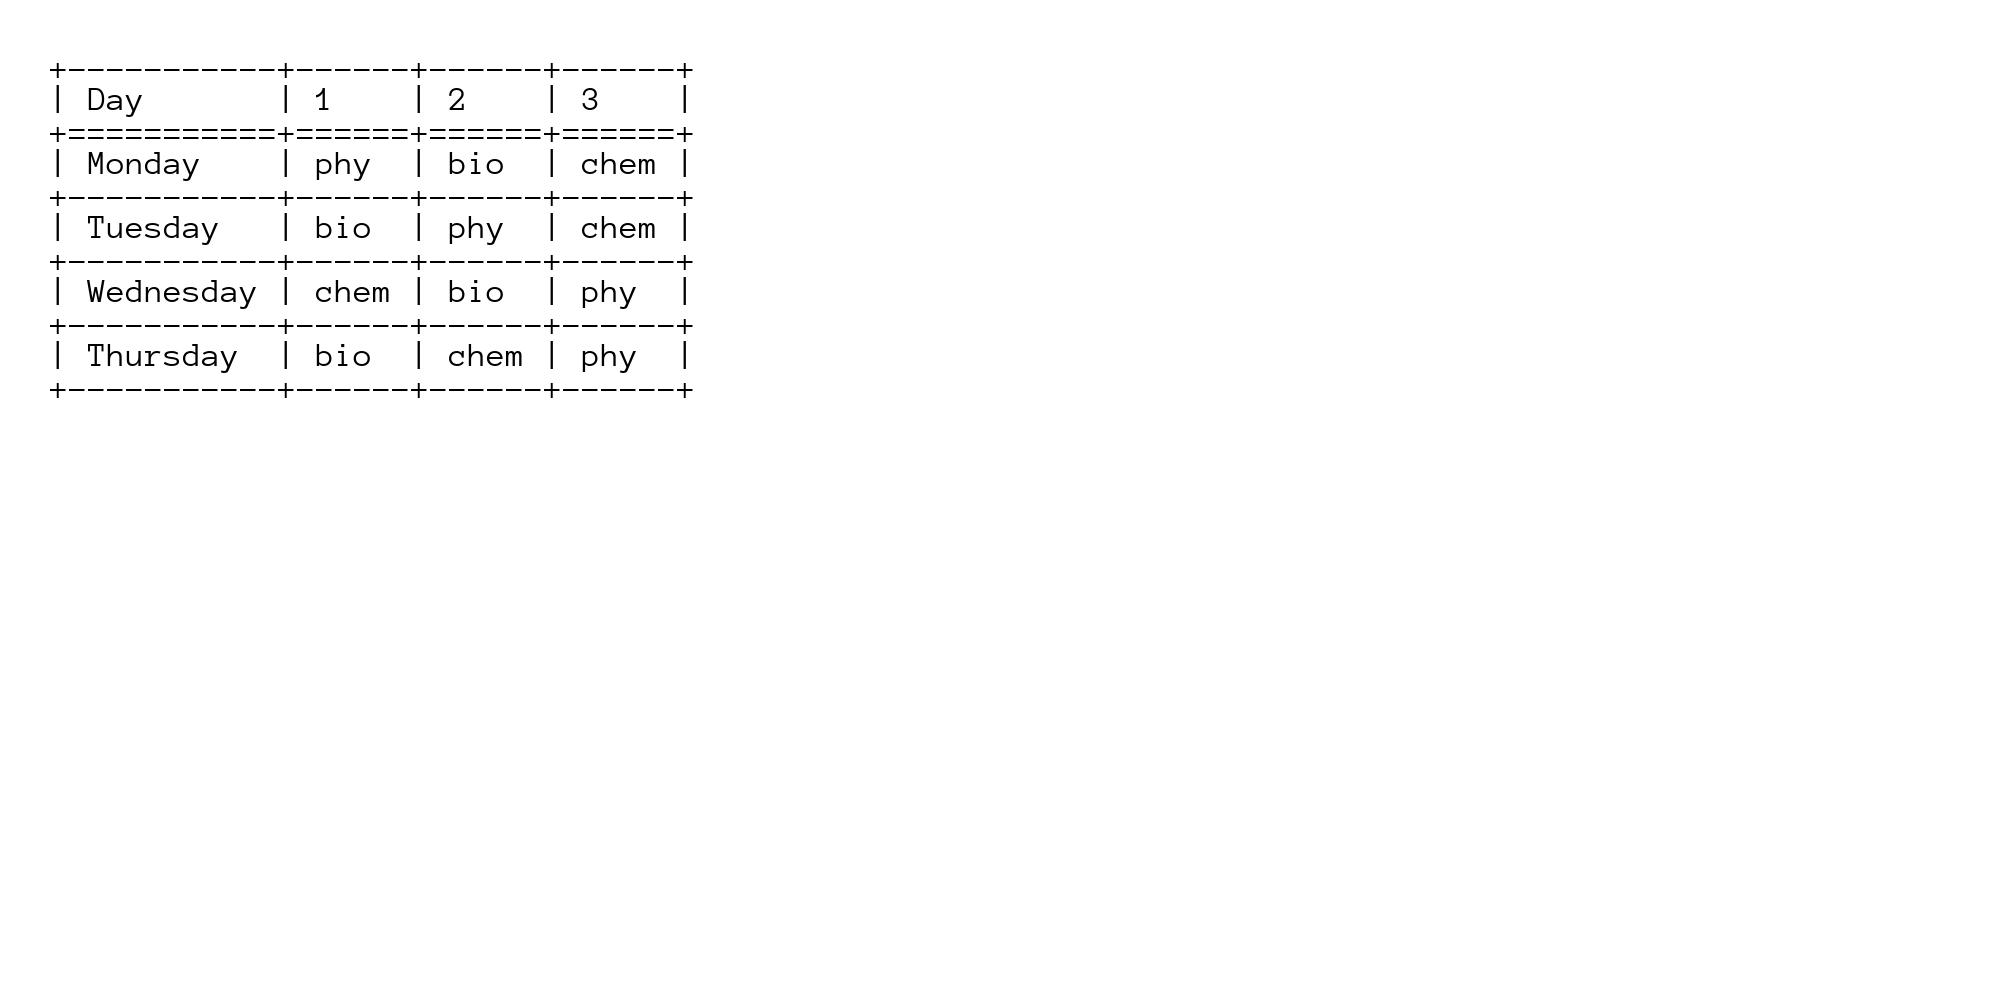
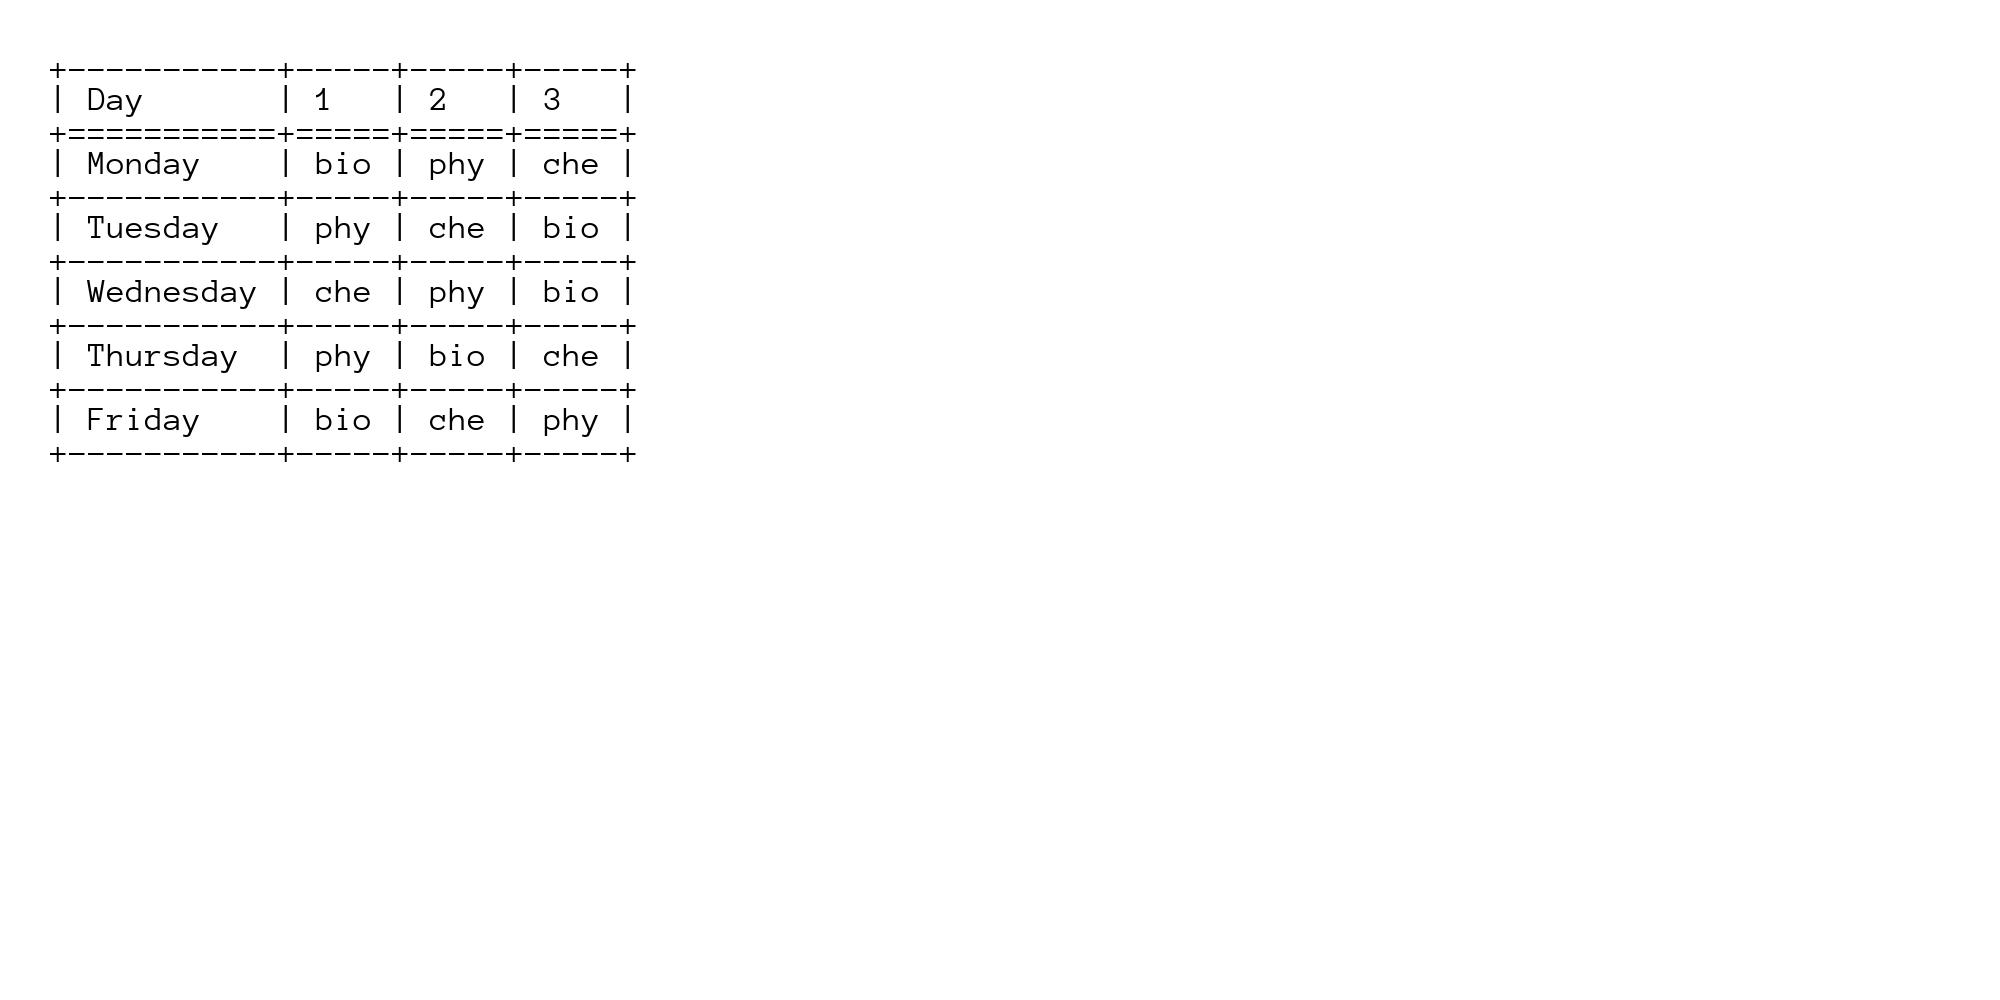
made a function

diff --git a/timetable.py b/timetable.py
@@ -3,26 +3,30 @@ import random
 from tabulate import TableFormat, tabulate
 from image_gen import gen_img as img
 
+def timetable_main(days,subject_n,var):
+    subjects = []
+    for i in range(n):
+        subjects.append(input('enter subject - '))
+
+    perm = list(it.permutations(subjects))  # all possible arrangements of periods in a list
+    if len(perm)<days:
+        perm *= days
+
+    days_of_the_week = ["Monday", "Tuesday", "Wednesday","Thursday","Friday"]
+    head = ["Day"]
+    for i in range(1,n+1):
+        head.append(i)
+
+    for i in range(m):
+        final = random.sample(perm,days) # choosing 5 random arrangments (depending on number of working days)
+        for j in range(days):
+            final[j] = (days_of_the_week[j],)+final[j]
+
+        table = tabulate(final, headers= head, tablefmt="grid")
+        img(table)
+
 days = int(input('enter number of working days - '))
 n = int(input('enter number of subjects - '))
 m = int(input('how many timetable variations do you want? '))
-subjects = []
-for i in range(n):
-    subjects.append(input('enter subject - '))
 
-perm = list(it.permutations(subjects))  # all possible arrangements of periods in a list
-if len(perm)<days:
-    perm *= days
-
-days_of_the_week = ["Monday", "Tuesday", "Wednesday","Thursday","Friday"]
-head = ["Day"]
-for i in range(1,n+1):
-    head.append(i)
-
-for i in range(m):
-    final = random.sample(perm,days) # choosing 5 random arrangments (depending on number of working days)
-    for j in range(days):
-        final[j] = (days_of_the_week[j],)+final[j]
-
-    table = tabulate(final, headers= head, tablefmt="grid")
-    img(table)
+timetable_main(days,n,m)
